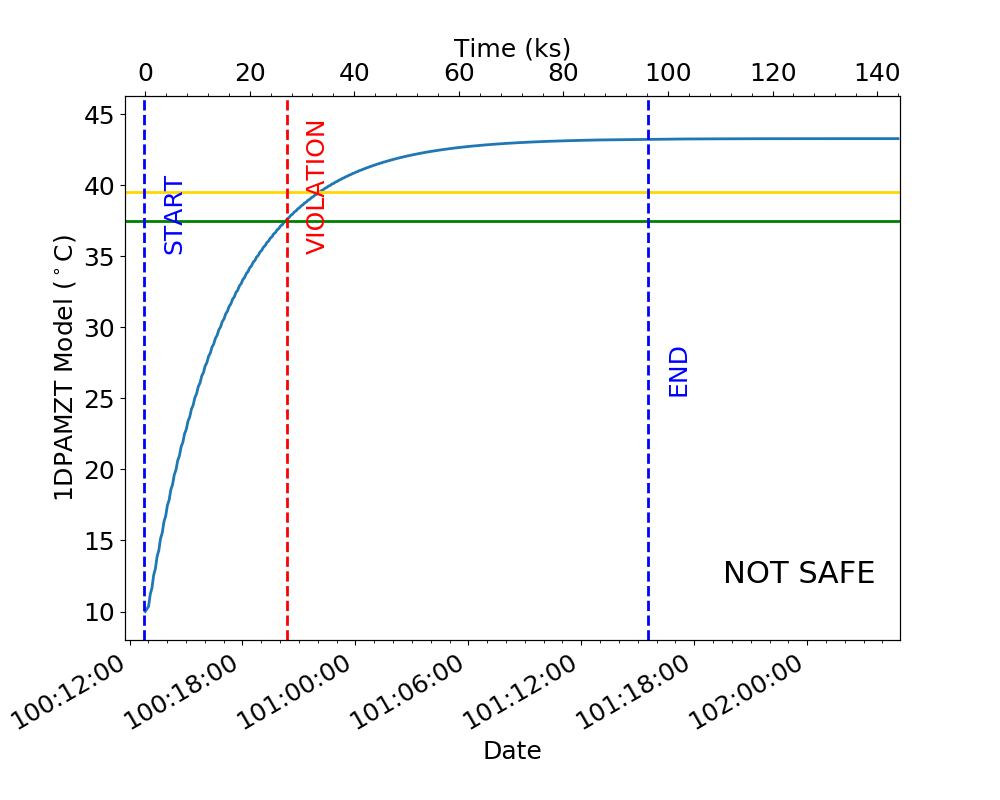
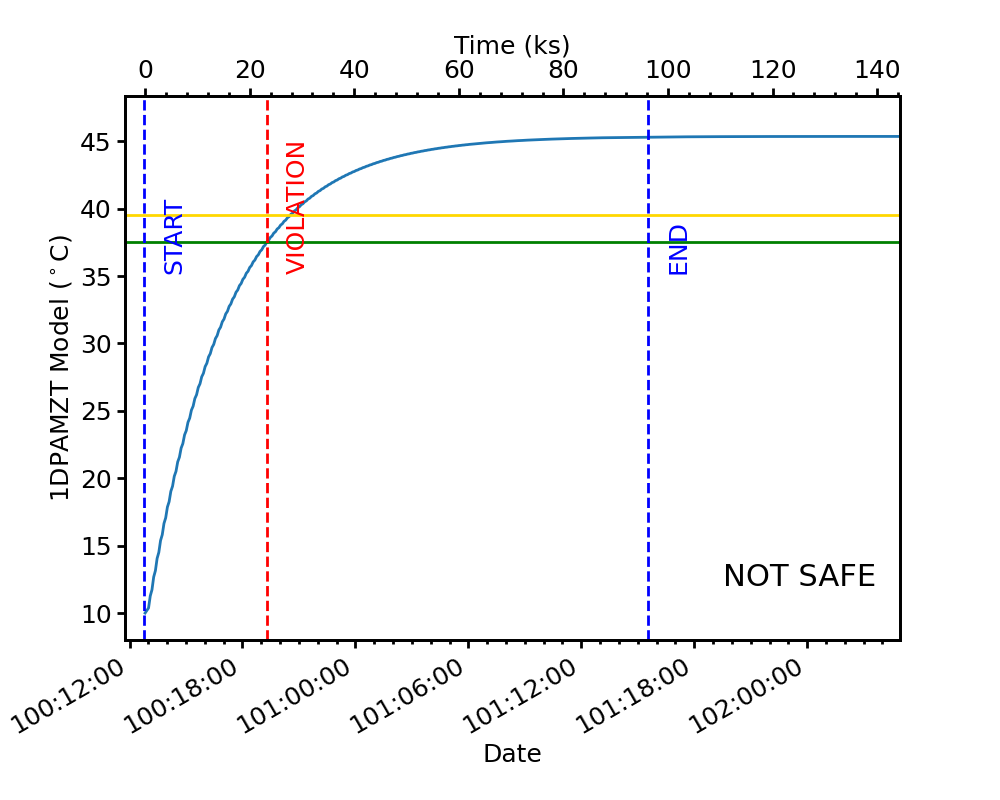
Doc updates

diff --git a/doc/source/index.rst b/doc/source/index.rst
@@ -236,28 +236,27 @@ Returns:
 
 .. code-block:: text
 
-   usage: simulate_ecs_run [-h] [--vehicle_load VEHICLE_LOAD] [--off_nom_roll OFF_NOM_ROLL] [--dh_heater DH_HEATER]
-                           component tstart hours T_init pitch ccd_count
+   usage: simulate_ecs_run [-h] [--dh_heater DH_HEATER] [--instrument INSTRUMENT] component tstart hours T_init attitude ccd_count
    
    Simulate an ECS run.
    
    positional arguments:
-     component             The component to model: dpa, dea, or psmc.
+     component             The component to model: dpa, dea, psmc, or acisfp
      tstart                The start time of the ECS run in YYYY:DOY:HH:MM:SS format
      hours                 The length of the ECS run in hours.
      T_init                The initial temperature of the component in degrees C.
-     pitch                 The pitch in degrees.
+     attitude              The attitude information for the ECS run. One of three possible formats: pitch,off_nom_roll: 155.0,2.0;
+                           quaternion: 1.0,0.3,0.0,0.0; vehicle_load: SEP1921C
      ccd_count             The number of CCDs to clock.
    
    optional arguments:
      -h, --help            show this help message and exit
-     --vehicle_load VEHICLE_LOAD
-                           The vehicle load which is running. Default: None, meaning no vehicle load. If this parameter is set, the
-                           input values of pitch and off-nominal roll will be ignored and the values from the vehicle load will be used.
-     --off_nom_roll OFF_NOM_ROLL
-                           The off-nominal roll. Default: 0.0
      --dh_heater DH_HEATER
                            Is the DH heater on (1) or off (0)? Default: 0/off.
+     --instrument INSTRUMENT
+                           Which instrument will be used to conduct the ECS measurement, ACIS-I or ACIS-S. Required for runs with the
+                           focal plane model.
+
 Example 1
 +++++++++
 
@@ -272,111 +271,120 @@ To run the 1DPAMZT model with the following conditions:
 
 .. code-block:: bash
 
-    [~]$ simulate_ecs_run dpa 2015:100:12:45:30 24 10.0 150. 6 --off_nom_roll 12.0
+    [~]$ simulate_ecs_run dpa 2015:100:12:45:30 24 10.0 150.0,12.0 6
 
 Returns:
 
 .. code-block:: text
 
-    acispy: [INFO     ] 2021-09-07 13:47:29,088 Using model for dpa from chandra_models version = 3.35.2
-    acispy: [INFO     ] 2021-09-07 13:47:29,423 Run Parameters
-    acispy: [INFO     ] 2021-09-07 13:47:29,423 --------------
-    acispy: [INFO     ] 2021-09-07 13:47:29,423 Start Datestring: 2015:100:12:45:30.000
-    acispy: [INFO     ] 2021-09-07 13:47:29,423 Length of state in hours: 24.0
-    acispy: [INFO     ] 2021-09-07 13:47:29,423 Stop Datestring: 2015:102:04:55:48.000
-    acispy: [INFO     ] 2021-09-07 13:47:29,423 Initial Temperature: 10.0 degrees C
-    acispy: [INFO     ] 2021-09-07 13:47:29,423 CCD/FEP Count: 6
-    acispy: [INFO     ] 2021-09-07 13:47:29,424 Pitch: 150.0
-    acispy: [INFO     ] 2021-09-07 13:47:29,424 Off-nominal Roll: 12.0
-    acispy: [INFO     ] 2021-09-07 13:47:29,424 Detector Housing Heater: OFF
-    acispy: [INFO     ] 2021-09-07 13:47:29,424 Model Result
-    acispy: [INFO     ] 2021-09-07 13:47:29,425 ------------
-    acispy: [INFO     ] 2021-09-07 13:47:29,425 The limit of 37.5 degrees C will be reached at 2015:100:19:17:44.816, after 23.53481599998474 ksec.
-    acispy: [INFO     ] 2021-09-07 13:47:29,426 The limit is reached before the end of the observation.
-    acispy: [WARNING  ] 2021-09-07 13:47:29,426 This observation is NOT safe from a thermal perspective.
-    acispy: [INFO     ] 2021-09-07 13:47:30,134 Image of the model run has been written to ecs_run_dpa_6chip_2015:100:12:45:30.png.
+   acispy: [INFO     ] 2021-12-10 13:34:17,872 Using model for dpa from chandra_models version = 3.37
+   Fetching msid: aoeclips over 2015:100:12:22:16.816 to 2015:102:05:16:48.816
+   acispy: [INFO     ] 2021-12-10 13:34:18,213 Run Parameters
+   acispy: [INFO     ] 2021-12-10 13:34:18,213 --------------
+   acispy: [INFO     ] 2021-12-10 13:34:18,213 Modeled Temperature: 1dpamzt
+   acispy: [INFO     ] 2021-12-10 13:34:18,213 Start Datestring: 2015:100:12:45:30.000
+   acispy: [INFO     ] 2021-12-10 13:34:18,214 Length of state in hours: 24.0
+   acispy: [INFO     ] 2021-12-10 13:34:18,214 Stop Datestring: 2015:102:04:55:48.000
+   acispy: [INFO     ] 2021-12-10 13:34:18,214 Initial Temperature: 10.0 degrees C
+   acispy: [INFO     ] 2021-12-10 13:34:18,214 CCD/FEP Count: 6
+   acispy: [INFO     ] 2021-12-10 13:34:18,214 Pitch: 150.0
+   acispy: [INFO     ] 2021-12-10 13:34:18,214 Off-nominal Roll: 12.0
+   acispy: [INFO     ] 2021-12-10 13:34:18,214 Detector Housing Heater: OFF
+   acispy: [INFO     ] 2021-12-10 13:34:18,215 Model Result
+   acispy: [INFO     ] 2021-12-10 13:34:18,215 ------------
+   acispy: [INFO     ] 2021-12-10 13:34:18,217 The limit of 37.5 degrees C will be reached at 2015:100:19:17:44.816, after 23.53481599998474 ksec.
+   acispy: [INFO     ] 2021-12-10 13:34:18,217 The limit is reached before the end of the observation.
+   acispy: [WARNING  ] 2021-12-10 13:34:18,217 This observation is NOT safe from a thermal perspective.
+   acispy: [INFO     ] 2021-12-10 13:34:19,013 Image of the model run has been written to ecs_run_1dpamzt_6chip_2015:100:12:45:30.png.
 
 .. image:: _images/ecs_run.png
 
 Example 2
 +++++++++
 
-To run the 1DEAMZT model with the following conditions:
+To run the ACIS focal plane model with the following conditions:
 
-* Start time: 2017:069:15:40:00
+* Start time: 2020:148:14:45:00
 * Length of ECS run: 24 hours
-* Initial temperature: 7.5 degrees C
-* Pitch: 150 degrees
+* Initial temperature: -115.0 degrees C
+* Quaternion: [-0.04470333, 0.63502552, -0.67575906, 0.37160988]
 * CCD count: 4
-* Off-nominal roll: 0.0 degrees
+* Instrument: ACIS-S
+
+Note that in this case we specify an attitude quaternion for an accurate representation
+of the Earth solid angle. We must also specify an instrument.
 
 .. code-block:: bash
 
-    [~]$ simulate_ecs_run dea 2017:069:15:40:00 24 7.5 150. 4 --off_nom_roll 0.0
+    [~]$ simulate_ecs_run acisfp 2020:148:14:45:00 24 -115.0 -0.04470333,0.63502552,-0.67575906,0.37160988 4 --instrument=ACIS-S
 
 Returns:
 
 .. code-block:: text
 
-    acispy: [INFO     ] 2021-09-07 13:48:01,352 Using model for dea from chandra_models version = 3.35.2
-    acispy: [INFO     ] 2021-09-07 13:48:01,632 Run Parameters
-    acispy: [INFO     ] 2021-09-07 13:48:01,633 --------------
-    acispy: [INFO     ] 2021-09-07 13:48:01,633 Start Datestring: 2017:069:15:40:00.000
-    acispy: [INFO     ] 2021-09-07 13:48:01,633 Length of state in hours: 24.0
-    acispy: [INFO     ] 2021-09-07 13:48:01,633 Stop Datestring: 2017:071:07:50:18.000
-    acispy: [INFO     ] 2021-09-07 13:48:01,633 Initial Temperature: 7.5 degrees C
-    acispy: [INFO     ] 2021-09-07 13:48:01,633 CCD/FEP Count: 4
-    acispy: [INFO     ] 2021-09-07 13:48:01,633 Pitch: 150.0
-    acispy: [INFO     ] 2021-09-07 13:48:01,633 Off-nominal Roll: 0.0
-    acispy: [INFO     ] 2021-09-07 13:48:01,633 Detector Housing Heater: OFF
-    acispy: [INFO     ] 2021-09-07 13:48:01,634 Model Result
-    acispy: [INFO     ] 2021-09-07 13:48:01,635 ------------
-    acispy: [INFO     ] 2021-09-07 13:48:01,635 The limit of 36.5 degrees C is never reached. 
-    acispy: [INFO     ] 2021-09-07 13:48:01,635 This observation is safe from a thermal perspective.
-    acispy: [INFO     ] 2021-09-07 13:48:02,529 Image of the model run has been written to ecs_run_dea_4chip_2017:069:15:40:00.png.
+   acispy: [INFO     ] 2021-12-10 13:31:56,940 Using model for acisfp from chandra_models version = 3.37
+   Fetching msid: aoeclips over 2020:148:14:22:22.816 to 2020:150:07:16:54.816
+   acispy: [INFO     ] 2021-12-10 13:31:58,566 Run Parameters
+   acispy: [INFO     ] 2021-12-10 13:31:58,566 --------------
+   acispy: [INFO     ] 2021-12-10 13:31:58,566 Modeled Temperature: fptemp_11
+   acispy: [INFO     ] 2021-12-10 13:31:58,566 Start Datestring: 2020:148:14:45:00.000
+   acispy: [INFO     ] 2021-12-10 13:31:58,566 Length of state in hours: 24.0
+   acispy: [INFO     ] 2021-12-10 13:31:58,566 Stop Datestring: 2020:150:06:55:18.000
+   acispy: [INFO     ] 2021-12-10 13:31:58,566 Initial Temperature: -115.0 degrees C
+   acispy: [INFO     ] 2021-12-10 13:31:58,566 CCD/FEP Count: 4
+   acispy: [INFO     ] 2021-12-10 13:31:58,566 Quaternion: [-0.04470333, 0.63502552, -0.67575906, 0.37160988]
+   acispy: [INFO     ] 2021-12-10 13:31:58,566 Pitch: 155.13828486037553
+   acispy: [INFO     ] 2021-12-10 13:31:58,566 Off-nominal Roll: 10.637704660891393
+   acispy: [INFO     ] 2021-12-10 13:31:58,566 Detector Housing Heater: OFF
+   acispy: [INFO     ] 2021-12-10 13:31:58,568 Model Result
+   acispy: [INFO     ] 2021-12-10 13:31:58,568 ------------
+   acispy: [INFO     ] 2021-12-10 13:31:58,569 The focal plane is never cold for this ECS measurement.
+   acispy: [INFO     ] 2021-12-10 13:31:58,570 The limit of -111.0 degrees C will be reached at 2020:149:06:02:38.816, after 55.058815999984745 ksec.
+   acispy: [INFO     ] 2021-12-10 13:31:58,571 The limit is reached before the end of the observation.
+   acispy: [INFO     ] 2021-12-10 13:31:59,331 Image of the model run has been written to ecs_run_fptemp_11_4chip_2020:148:14:45:00.png.
 
 .. image:: _images/ecs_run2.png
 
 Example 3
 +++++++++
 
-This example assumes that the vehicle loads are still running, which means
-that the input values of the pitch and the off-nominal roll are ignored in 
-favor of 
+This example assumes that the vehicle loads are still running, which means that 
+the attitude information comes from a load.
 
 To run the 1DPAMZT model with the following conditions:
 
 * Start time: 2017:256:03:20:00 
 * Length of ECS run: 24 hours
 * Initial temperature: 10.0 degrees C
-* Pitch: 0 degrees (the value doesn't matter)
 * CCD count: 6
 * Vehicle load: SEP0917C
 
 .. code-block:: bash
 
-    [~]$ simulate_ecs_run dpa 2017:256:03:20:00 24 10.0 0.0 6 --vehicle_load SEP0917C
+    [~]$ simulate_ecs_run dpa 2017:256:03:20:00 24 10.0 SEP0917C 6
 
 Returns:
 
 .. code-block:: text
 
-    acispy: [INFO     ] 2021-09-07 13:50:44,322 Modeling a 6-chip state concurrent with the SEP0917C vehicle loads.
-    acispy: [INFO     ] 2021-09-07 13:50:46,713 Using model for dpa from chandra_models version = 3.35.2
-    acispy: [INFO     ] 2021-09-07 13:50:46,958 Run Parameters
-    acispy: [INFO     ] 2021-09-07 13:50:46,959 --------------
-    acispy: [INFO     ] 2021-09-07 13:50:46,959 Start Datestring: 2017:256:03:20:00.000
-    acispy: [INFO     ] 2021-09-07 13:50:46,959 Length of state in hours: 24.0
-    acispy: [INFO     ] 2021-09-07 13:50:46,959 Stop Datestring: 2017:257:19:30:18.000
-    acispy: [INFO     ] 2021-09-07 13:50:46,959 Initial Temperature: 10.0 degrees C
-    acispy: [INFO     ] 2021-09-07 13:50:46,959 CCD/FEP Count: 6
-    acispy: [INFO     ] 2021-09-07 13:50:46,959 Detector Housing Heater: OFF
-    acispy: [INFO     ] 2021-09-07 13:50:46,960 Model Result
-    acispy: [INFO     ] 2021-09-07 13:50:46,960 ------------
-    acispy: [INFO     ] 2021-09-07 13:50:46,961 The limit of 37.5 degrees C will be reached at 2017:256:11:34:14.816, after 29.65481599998474 ksec.
-    acispy: [INFO     ] 2021-09-07 13:50:46,961 The limit is reached before the end of the observation.
-    acispy: [WARNING  ] 2021-09-07 13:50:46,961 This observation is NOT safe from a thermal perspective.
-    acispy: [INFO     ] 2021-09-07 13:50:47,707 Image of the model run has been written to ecs_run_dpa_6chip_2017:256:03:20:00.png.
+   acispy: [INFO     ] 2021-12-10 13:35:11,194 Modeling a 6-chip state concurrent with the SEP0917C vehicle loads.
+   acispy: [INFO     ] 2021-12-10 13:35:13,604 Using model for dpa from chandra_models version = 3.37
+   Fetching msid: aoeclips over 2017:256:02:54:54.816 to 2017:257:19:49:26.816
+   acispy: [INFO     ] 2021-12-10 13:35:13,984 Run Parameters
+   acispy: [INFO     ] 2021-12-10 13:35:13,984 --------------
+   acispy: [INFO     ] 2021-12-10 13:35:13,984 Modeled Temperature: 1dpamzt
+   acispy: [INFO     ] 2021-12-10 13:35:13,984 Start Datestring: 2017:256:03:20:00.000
+   acispy: [INFO     ] 2021-12-10 13:35:13,984 Length of state in hours: 24.0
+   acispy: [INFO     ] 2021-12-10 13:35:13,984 Stop Datestring: 2017:257:19:30:18.000
+   acispy: [INFO     ] 2021-12-10 13:35:13,984 Initial Temperature: 10.0 degrees C
+   acispy: [INFO     ] 2021-12-10 13:35:13,984 CCD/FEP Count: 6
+   acispy: [INFO     ] 2021-12-10 13:35:13,985 Detector Housing Heater: OFF
+   acispy: [INFO     ] 2021-12-10 13:35:13,986 Model Result
+   acispy: [INFO     ] 2021-12-10 13:35:13,986 ------------
+   acispy: [INFO     ] 2021-12-10 13:35:13,990 The limit of 37.5 degrees C will be reached at 2017:256:11:34:14.816, after 29.65481599998474 ksec.
+   acispy: [INFO     ] 2021-12-10 13:35:13,990 The limit is reached before the end of the observation.
+   acispy: [WARNING  ] 2021-12-10 13:35:13,990 This observation is NOT safe from a thermal perspective.
+   acispy: [INFO     ] 2021-12-10 13:35:15,138 Image of the model run has been written to ecs_run_1dpamzt_6chip_2017:256:03:20:00.png.
 
 .. image:: _images/ecs_run3.png
 
